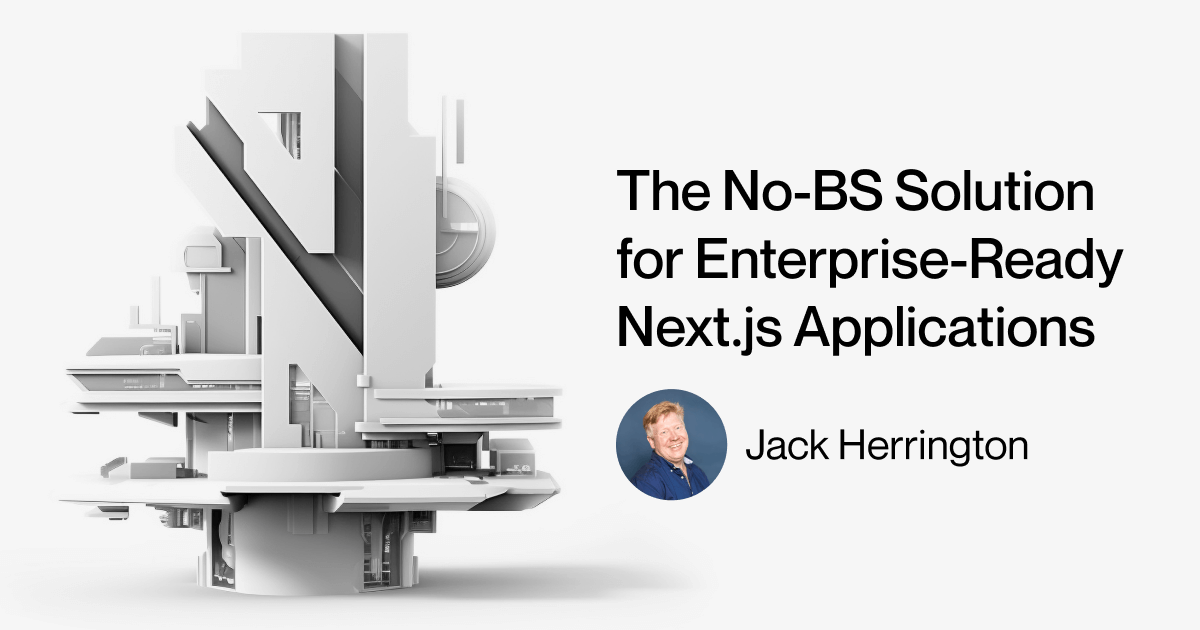
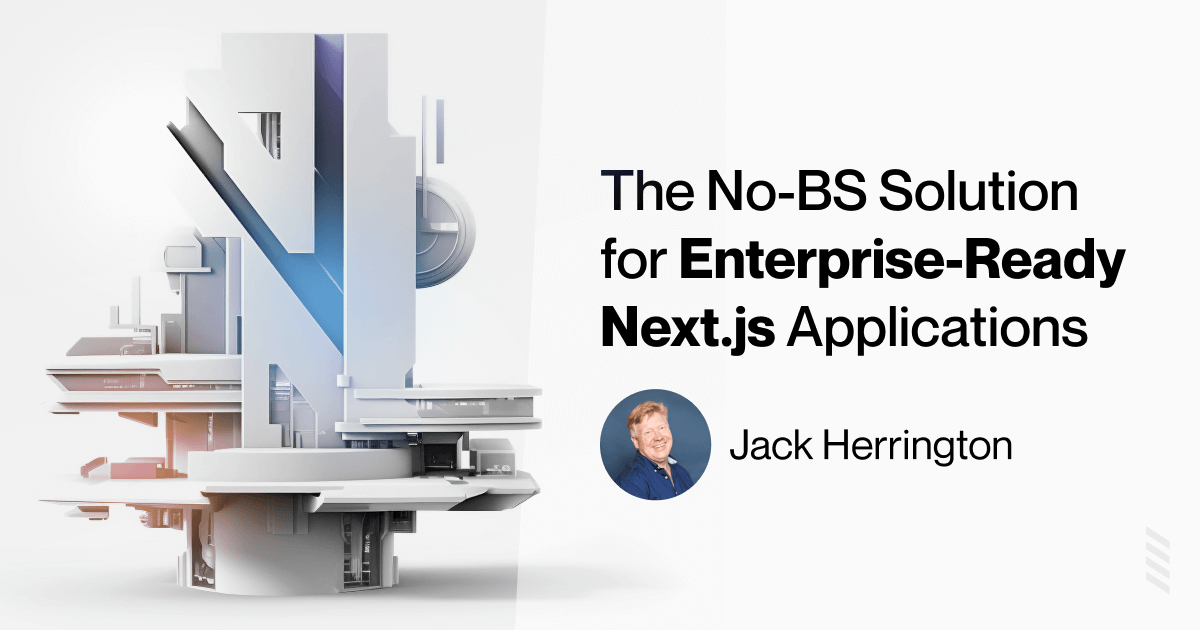
feat(pn): design updates

diff --git a/apps/pro-nextjs/src/pages/index.tsx b/apps/pro-nextjs/src/pages/index.tsx
@@ -17,8 +17,8 @@ const Home: NextPage = () => {
           aria-hidden
           priority
           placeholder="blur"
-          width={320}
-          height={320}
+          width={350}
+          height={350}
           quality={100}
           className="mx-auto"
         />

diff --git a/apps/pro-nextjs/src/components/primary-newsletter-cta.tsx b/apps/pro-nextjs/src/components/primary-newsletter-cta.tsx
@@ -39,7 +39,7 @@ export const PrimaryNewsletterCta: React.FC<
   onSuccess,
   image = () => (
     <Image
-      src={require('../../public/skyscaper-2.jpg')}
+      src={require('../../public/skyscaper-5.jpg')}
       alt=""
       aria-hidden
       priority
